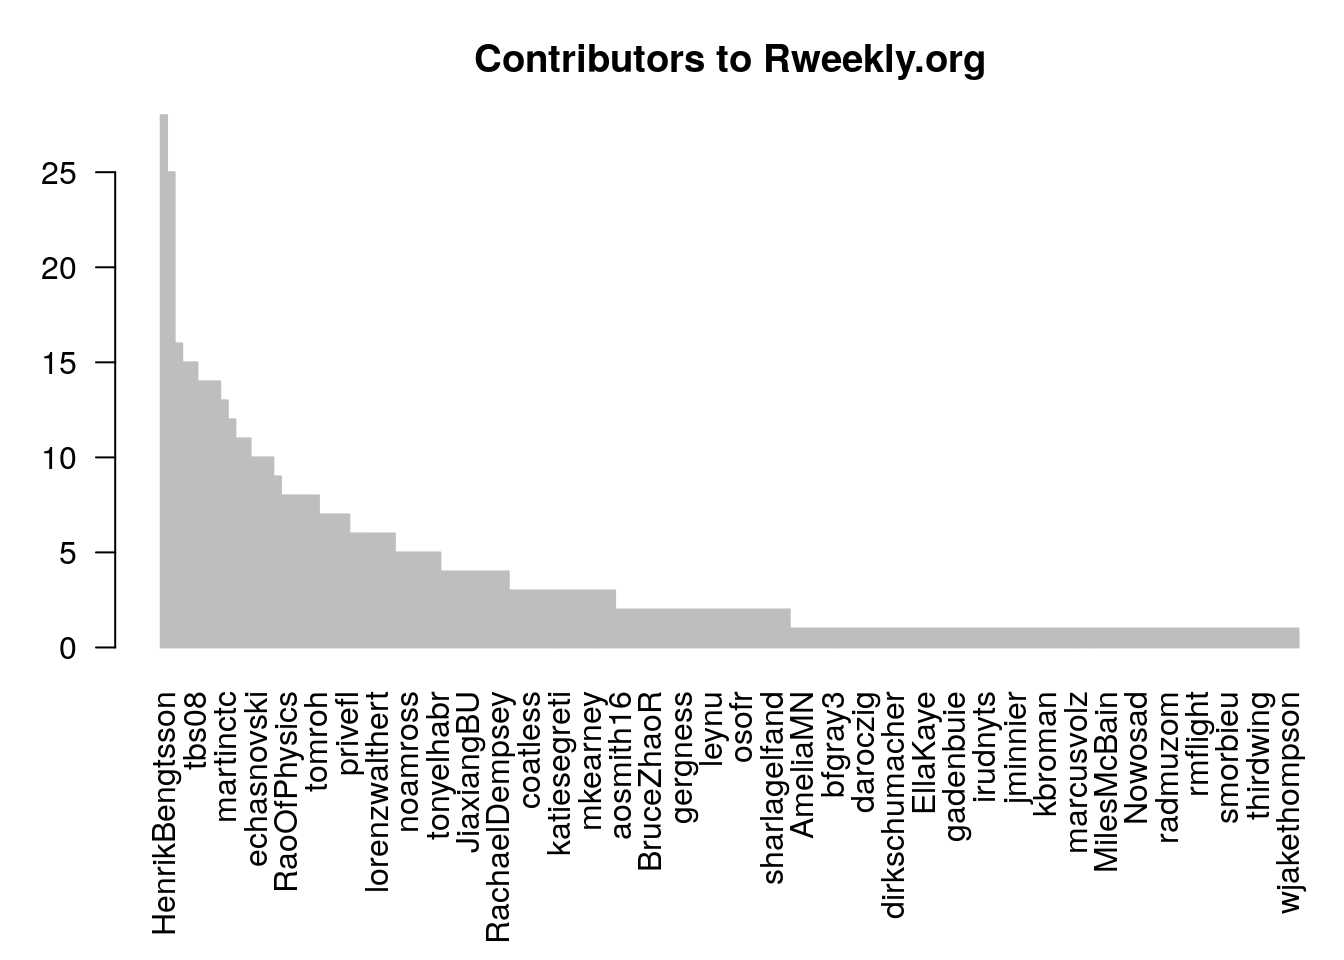
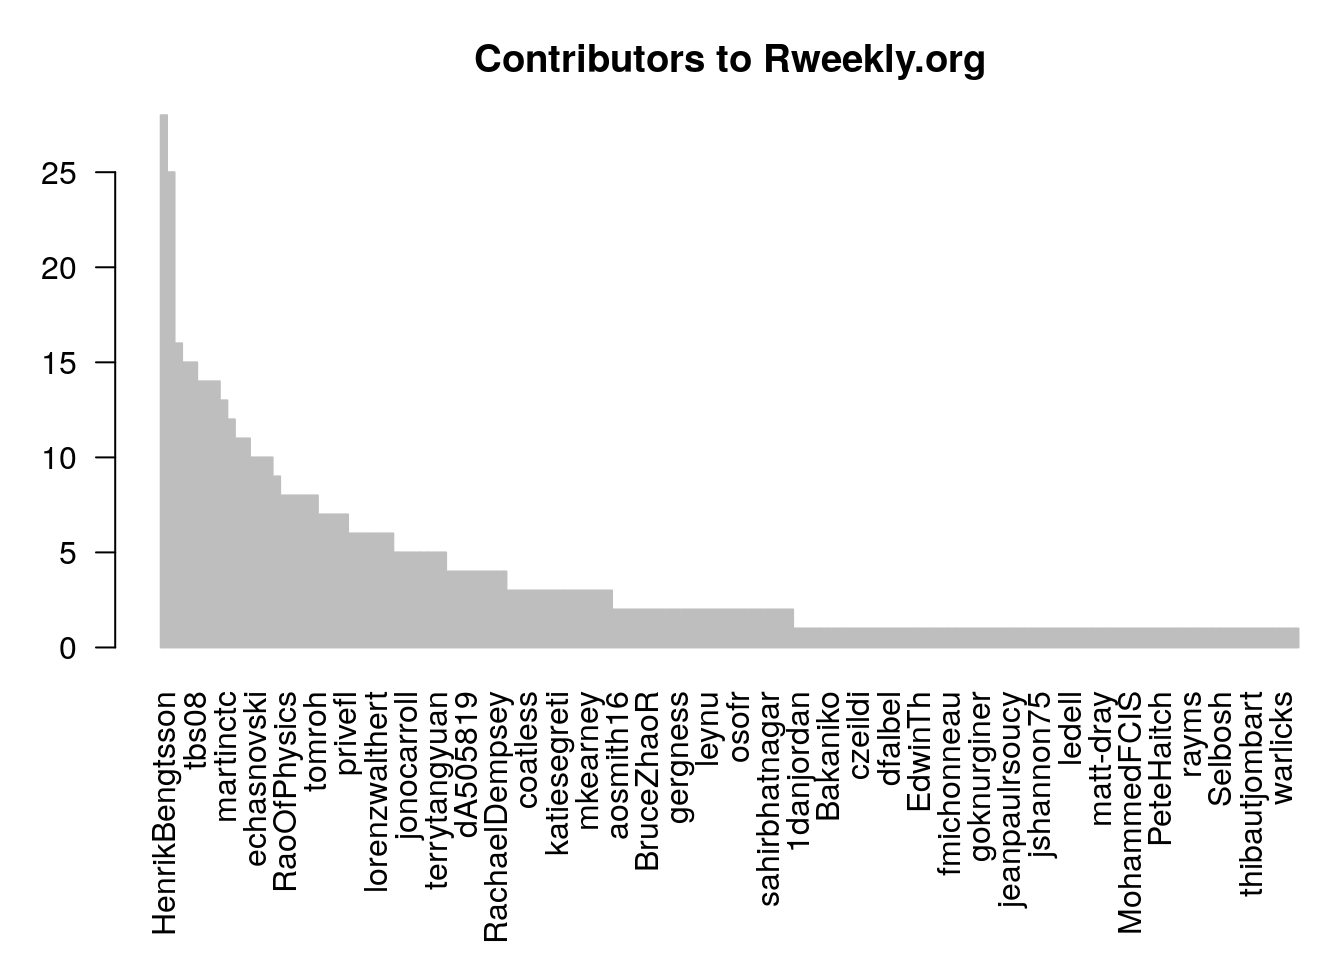
Correct some tipos

Changed region(s): [[0.1875, 0.7188, 0.9688, 0.9688]]

diff --git a/content/post/2020-02-13-r-weekly-new-editor.html b/content/post/2020-02-13-r-weekly-new-editor.html
@@ -32,8 +32,8 @@ summary: 'Checking who can be Rweekly.org editor with R'
 <pre class="r"><code>library(&quot;gh&quot;)
 PR &lt;- gh(&quot;GET /search/issues?q=repo:rweekly/rweekly.org+is:pr+is:merged&amp;per_page=100&quot;) # Copied from https://developer.github.com/v3/pulls/
 PR$total_count
-## [1] 552</code></pre>
-<p>We know that there have been 552, we’ll need 6 calls to the appy, because it only return 30 values on each call.</p>
+## [1] 555</code></pre>
+<p>We know that there have been 552, we’ll need 6 calls to the appy, because it returns 100 values on each call.</p>
 <p>This time we’ll use copy and paste for a quick solution:</p>
 <pre class="r"><code>PR2 &lt;- gh(&quot;GET /search/issues?q=repo:rweekly/rweekly.org+is:pr+is:merged&amp;per_page=100&amp;page=2&quot;)
 PR3 &lt;- gh(&quot;GET /search/issues?q=repo:rweekly/rweekly.org+is:pr+is:merged&amp;per_page=100&amp;page=3&quot;)
@@ -47,12 +47,11 @@ users &lt;- lapply(data, function(x) {
   vapply(x$items, function(y) {y$user$login}, character(1L))
 })
 users &lt;- sort(unlist(users))</code></pre>
-<p>We know now that 150 has contributed through PR.
+<p>We know now that 151 has contributed through PR.
 Which of them are done by at the same people?</p>
 <pre class="r"><code>ts &lt;- sort(table(users), decreasing = TRUE)
-par(mar=c(8,3,3,0))
-barplot(ts, las = 2, border = &quot;gray&quot;,
-        main = &quot;Contributors to Rweekly.org&quot;)</code></pre>
+par(mar = c(8,3,3,0))
+barplot(ts, las = 2, border = &quot;gray&quot;, main = &quot;Contributors to Rweekly.org&quot;)</code></pre>
 <p><img src="/post/2020-02-13-r-weekly-new-editor_files/figure-html/barplot-1.png" width="672" /></p>
 <p>So we have 31 contributors which are ellegible, less if we remove the current editors:</p>
 <pre class="r"><code>names(ts)[ts &gt;= 6]
@@ -77,36 +76,36 @@ barplot(ts, las = 2, border = &quot;gray&quot;,
 ##  collate  en_US.UTF-8                 
 ##  ctype    en_US.UTF-8                 
 ##  tz       Europe/Madrid               
-##  date     2020-02-29                  
+##  date     2020-03-15                  
 ## 
 ## ─ Packages ───────────────────────────────────────────────────────────────────────────────────────────────────────────
 ##  package     * version date       lib source        
 ##  assertthat    0.2.1   2019-03-21 [1] CRAN (R 3.6.0)
-##  blogdown      0.17    2019-11-13 [1] CRAN (R 3.6.1)
-##  bookdown      0.16    2019-11-22 [1] CRAN (R 3.6.1)
-##  cli           2.0.1   2020-01-08 [1] CRAN (R 3.6.1)
+##  blogdown      0.18    2020-03-04 [1] CRAN (R 3.6.1)
+##  bookdown      0.18    2020-03-05 [1] CRAN (R 3.6.1)
+##  cli           2.0.2   2020-02-28 [1] CRAN (R 3.6.1)
 ##  crayon        1.3.4   2017-09-16 [1] CRAN (R 3.6.0)
 ##  curl          4.3     2019-12-02 [1] CRAN (R 3.6.1)
-##  digest        0.6.23  2019-11-23 [1] CRAN (R 3.6.1)
+##  digest        0.6.25  2020-02-23 [1] CRAN (R 3.6.1)
 ##  evaluate      0.14    2019-05-28 [1] CRAN (R 3.6.0)
 ##  fansi         0.4.1   2020-01-08 [1] CRAN (R 3.6.1)
-##  gh          * 1.0.1   2017-07-16 [1] CRAN (R 3.6.0)
-##  glue          1.3.1   2019-03-12 [1] CRAN (R 3.6.0)
+##  gh          * 1.1.0   2020-01-24 [1] CRAN (R 3.6.1)
+##  glue          1.3.2   2020-03-12 [1] CRAN (R 3.6.1)
 ##  htmltools     0.4.0   2019-10-04 [1] CRAN (R 3.6.1)
 ##  httr          1.4.1   2019-08-05 [1] CRAN (R 3.6.0)
-##  jsonlite      1.6     2018-12-07 [1] CRAN (R 3.6.0)
-##  knitr         1.27    2020-01-16 [1] CRAN (R 3.6.1)
+##  jsonlite      1.6.1   2020-02-02 [1] CRAN (R 3.6.1)
+##  knitr         1.28    2020-02-06 [1] CRAN (R 3.6.1)
 ##  magrittr      1.5     2014-11-22 [1] CRAN (R 3.6.0)
 ##  R6            2.4.1   2019-11-12 [1] CRAN (R 3.6.1)
 ##  Rcpp          1.0.3   2019-11-08 [1] CRAN (R 3.6.1)
-##  rlang         0.4.4   2020-01-28 [1] CRAN (R 3.6.1)
-##  rmarkdown     2.0     2019-12-12 [1] CRAN (R 3.6.1)
+##  rlang         0.4.5   2020-03-01 [1] CRAN (R 3.6.1)
+##  rmarkdown     2.1     2020-01-20 [1] CRAN (R 3.6.1)
 ##  sessioninfo   1.1.1   2018-11-05 [1] CRAN (R 3.6.0)
-##  stringi       1.4.5   2020-01-11 [1] CRAN (R 3.6.1)
+##  stringi       1.4.6   2020-02-17 [1] CRAN (R 3.6.1)
 ##  stringr       1.4.0   2019-02-10 [1] CRAN (R 3.6.0)
 ##  withr         2.1.2   2018-03-15 [1] CRAN (R 3.6.0)
 ##  xfun          0.12    2020-01-13 [1] CRAN (R 3.6.1)
-##  yaml          2.2.0   2018-07-25 [1] CRAN (R 3.6.0)
+##  yaml          2.2.1   2020-02-01 [1] CRAN (R 3.6.1)
 ## 
 ## [1] /home/lluis/R/x86_64-pc-linux-gnu-library/3.6
 ## [2] /usr/local/lib/R/site-library
